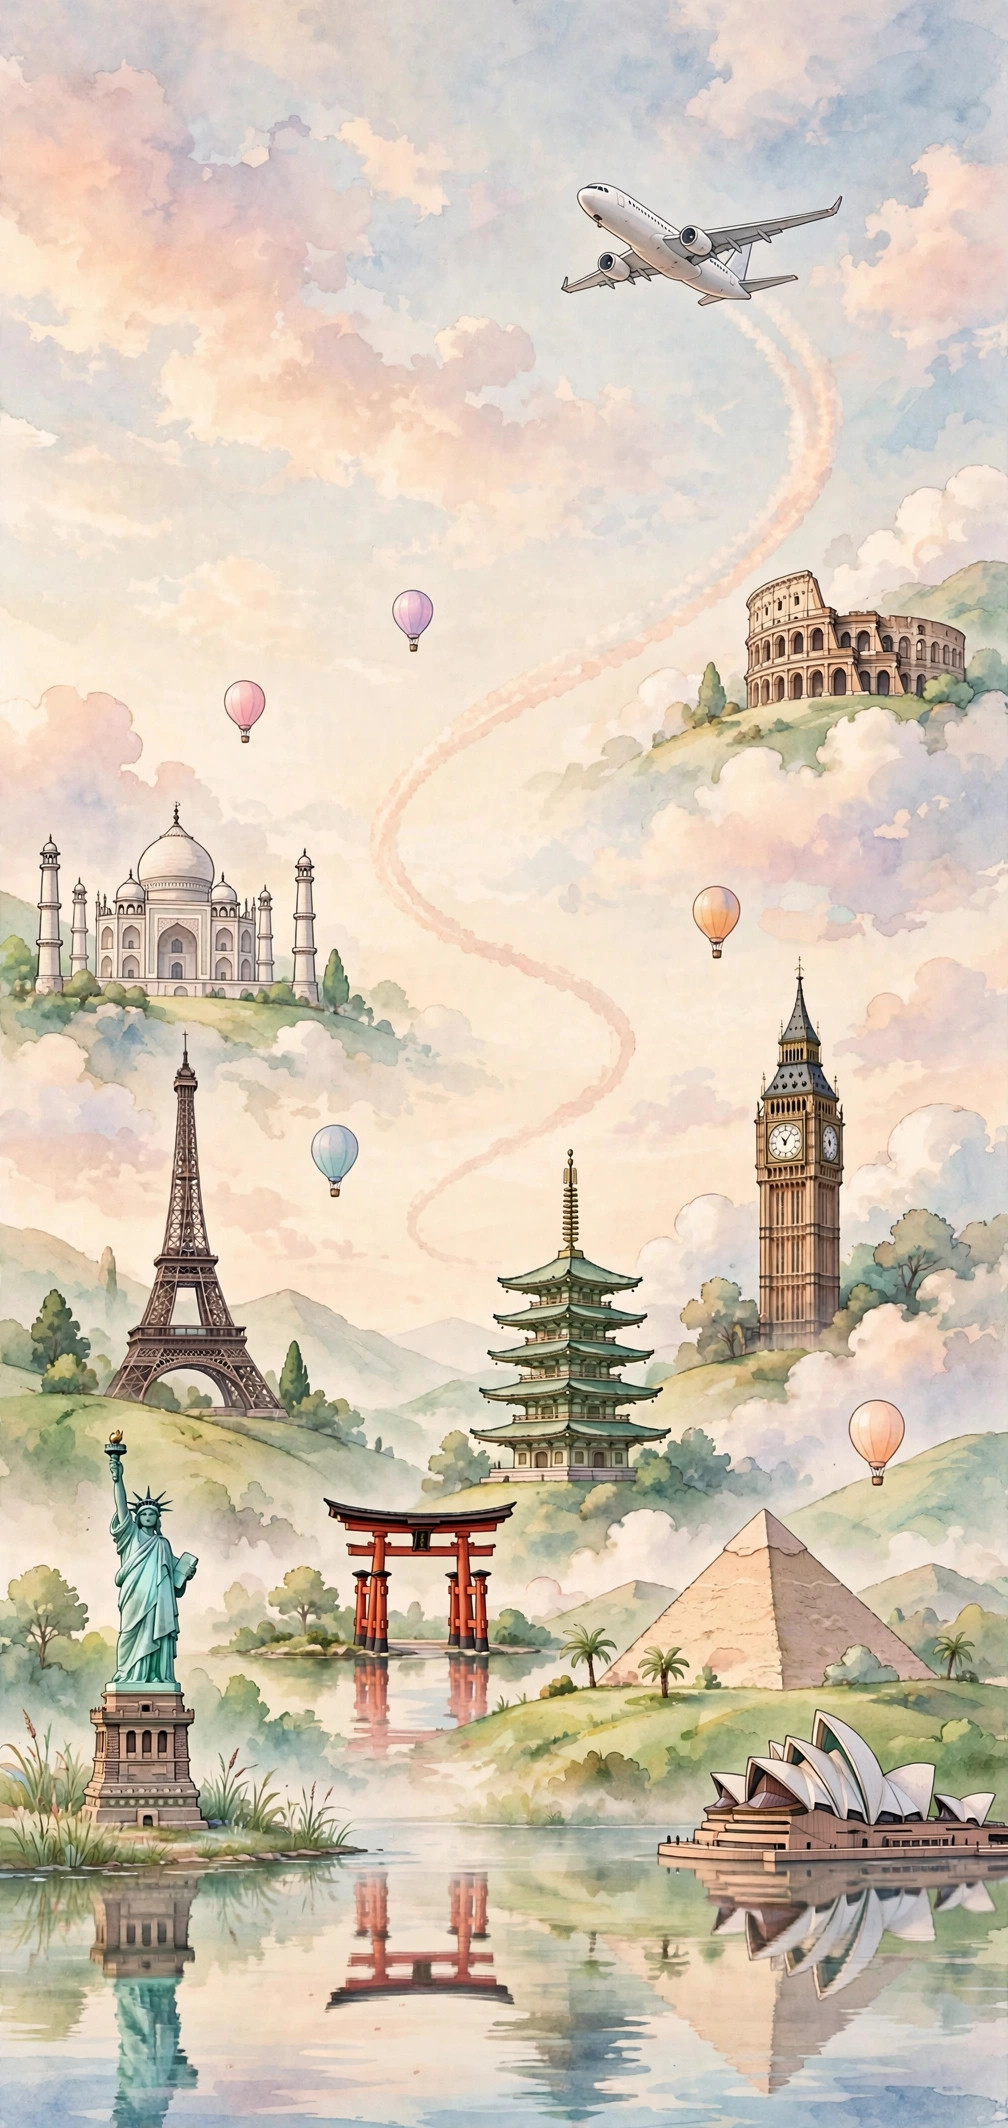
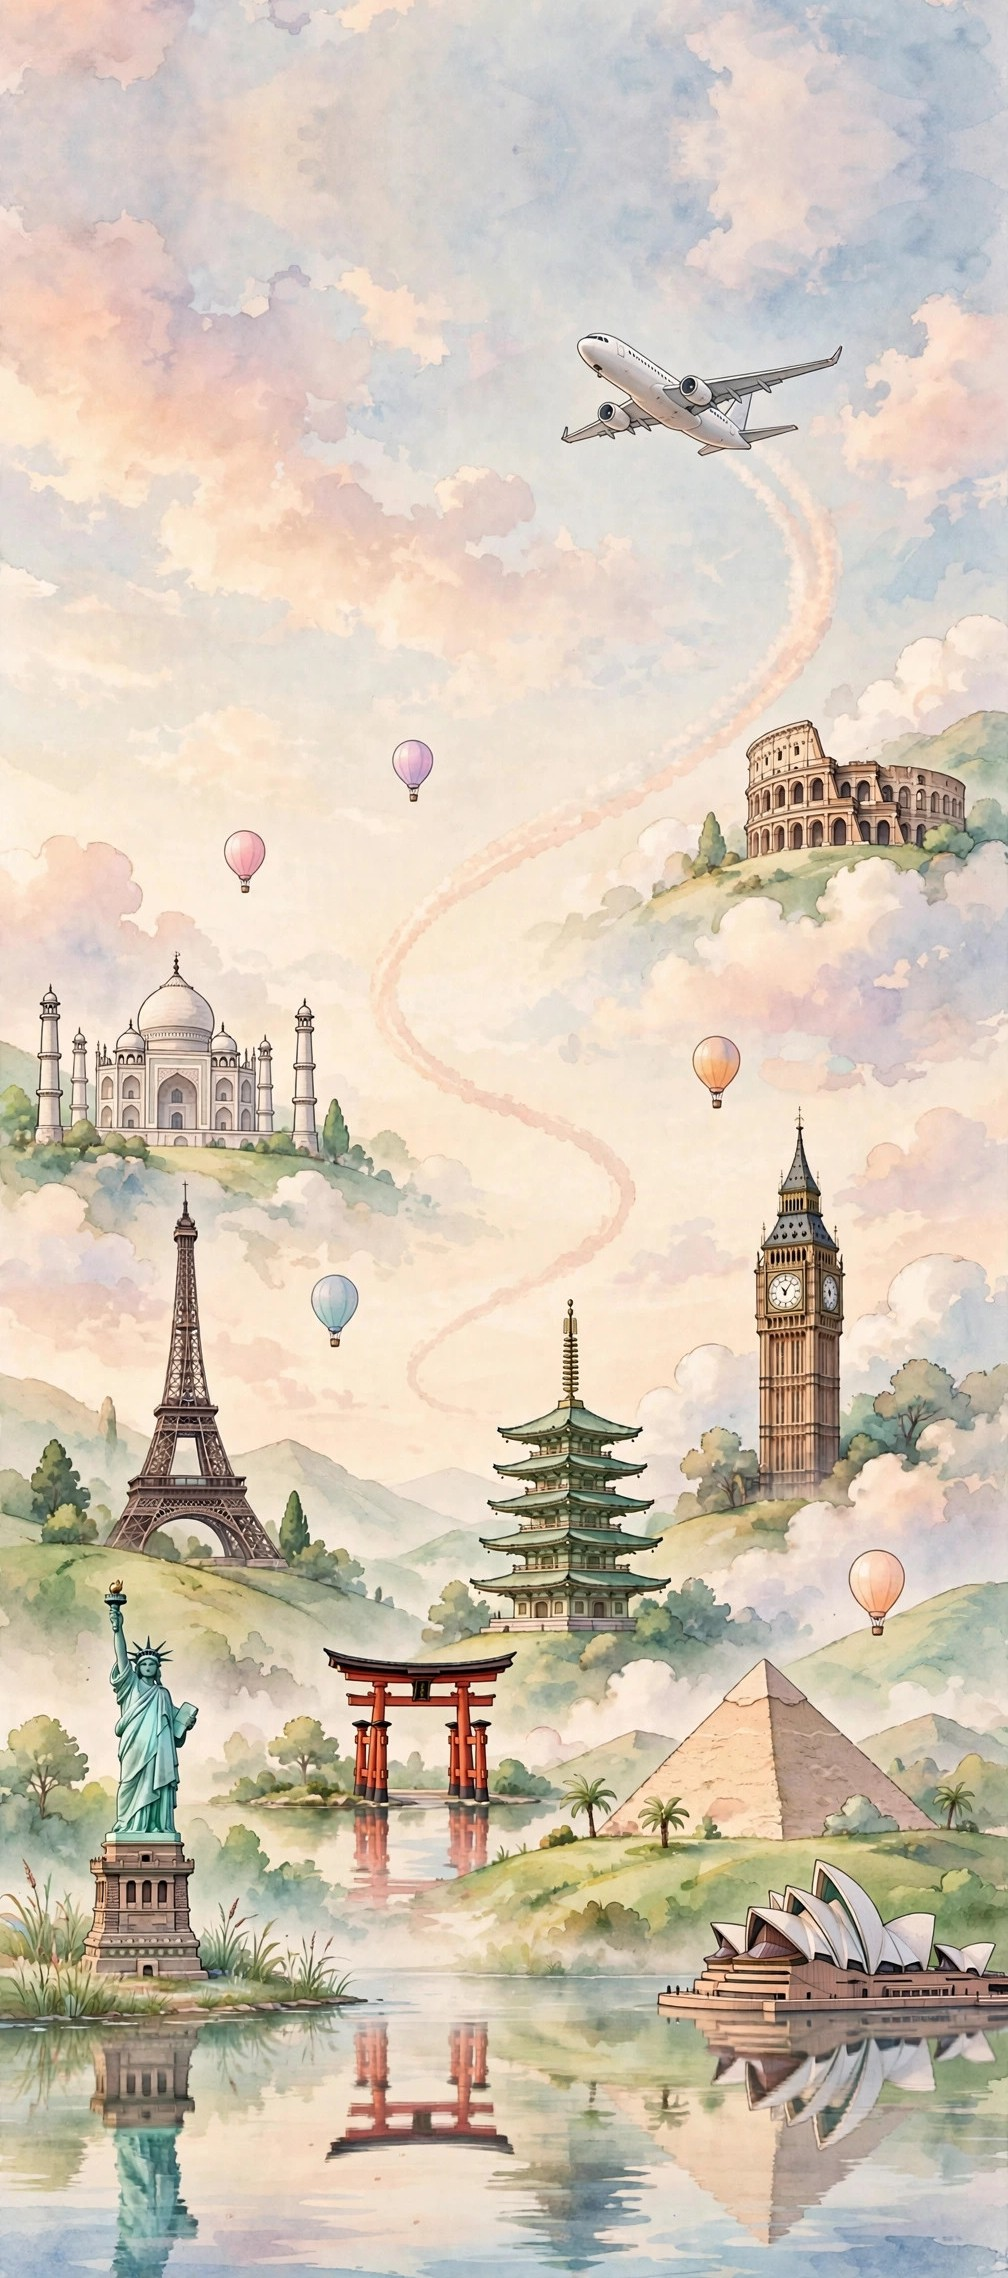
Add files via upload

diff --git a/public/index.html b/public/index.html
@@ -31,15 +31,15 @@ body{
 }
 body::before{
   content:""; position:fixed; inset:0; z-index:-2;
-  background:url("assets/travel-bg.jpg") center/cover no-repeat, linear-gradient(180deg, #FBE7CE, #FFF7EC 50%, #FBE7CE);
+  background:url("assets/travel-bg.jpg") center top/cover no-repeat, linear-gradient(180deg, #FBE7CE, #FFF7EC 50%, #FBE7CE);
 }
 body::after{
   content:""; position:fixed; inset:0; z-index:-1;
   background:linear-gradient(180deg, rgba(255,247,236,.24), rgba(255,247,236,.38));
 }
-/* Dien thoai: dung anh nen DOC rieng (9:19.5) phu FULL toan man hinh bang cover */
+/* Dien thoai: dung anh nen DOC rieng phu FULL toan man hinh bang cover, neo TOP de may bay o goc tren artwork luon hien tron tren moi ti le man hinh */
 @media (max-width:640px){
-  body::before{background-image:url("assets/travel-bg-portrait.jpg"); background-size:cover; background-position:center; background-color:#FFF7EC}
+  body::before{background-image:url("assets/travel-bg-portrait.jpg"); background-size:cover; background-position:center top; background-color:#FFF7EC}
 }
 h1,h2,h3,.font-round{font-family:"Baloo 2","Be Vietnam Pro","Comic Sans MS","Chalkboard SE",system-ui,sans-serif}
 button{font-family:inherit; cursor:pointer; border:none; background:none; color:inherit}
@@ -76,33 +76,33 @@ textarea.field{resize:vertical; min-height:64px}
 @keyframes planeGlide{0%,100%{transform:translate(0,0) rotate(0deg)}30%{transform:translate(-7px,-9px) rotate(-4deg)}55%{transform:translate(-2px,-13px) rotate(-1deg)}75%{transform:translate(5px,-6px) rotate(3deg)}}
 @media (prefers-reduced-motion: reduce){.plane-wrap img{animation:none}}
 .date-row{display:grid; grid-template-columns:1fr 1fr; gap:12px; margin-top:16px}
-.date-btn{width:100%; text-align:left; background:#FFF9F0; border:2px solid var(--line); border-radius:var(--r-md); padding:12px 14px; font-size:15px; font-weight:600; display:flex; justify-content:space-between; align-items:center}
+.date-btn{width:100%; height:52px; text-align:left; background:#FFF9F0; border:2px solid var(--line); border-radius:var(--r-md); padding:12px 14px; font-size:15px; font-weight:600; display:flex; justify-content:space-between; align-items:center}
 .date-btn .ph{color:var(--muted); font-weight:500}
 .city-wrap{position:relative; margin-top:12px}
 .cc-row{display:grid; grid-template-columns:1fr 1fr; gap:12px; margin-top:12px}
 .cc-row .city-wrap{margin-top:0; min-width:0}
-.cc-row .field{padding:12px 10px}
+.cc-row .field{padding:12px 10px; height:52px}
 .suggest{position:absolute; left:0; right:0; top:calc(100% + 6px); background:#fff; border:2px solid var(--line); border-radius:var(--r-md); box-shadow:var(--shadow); overflow:hidden; z-index:30}
 .suggest button{display:flex; justify-content:space-between; align-items:center; width:100%; text-align:left; padding:11px 14px; font-size:15px; border-bottom:1px solid #FBF0DD}
 .suggest button:last-child{border-bottom:none}
 .suggest button:hover{background:#FFF4E4}
 .suggest .ct{color:var(--muted); font-size:12px; font-weight:700}
 .search-btn{width:100%; margin-top:16px; padding:15px; font-size:17px}
-.nav-grid{display:grid; grid-template-columns:1fr 1fr; gap:10px; margin-top:12px}
-.nav-tile{background:rgba(255,253,248,.92); border:2px solid var(--line); border-radius:20px; box-shadow:var(--shadow); padding:12px 8px 10px; display:flex; flex-direction:column; align-items:center; gap:4px; font-family:"Baloo 2",sans-serif; font-weight:800; font-size:15px; color:#274156}
-.nav-tile .ic{font-size:24px; line-height:1}
+.nav-grid{display:grid; grid-template-columns:1fr 1fr; grid-auto-rows:1fr; gap:10px; margin-top:12px}
+.nav-tile{background:rgba(255,253,248,.92); border:2px solid var(--line); border-radius:20px; box-shadow:var(--shadow); padding:12px 8px 10px; display:flex; flex-direction:column; align-items:center; justify-content:center; height:76px; gap:4px; font-family:"Baloo 2",sans-serif; font-weight:800; font-size:15px; color:#274156}
+.nav-tile .ic{font-size:24px; line-height:1; height:26px; display:flex; align-items:center; justify-content:center}
 .nav-tile.on{background:var(--coral); border-color:var(--coral); color:#fff}
 .nav-row{display:flex; gap:8px; margin-bottom:14px}
 .nav-row button{flex:1; min-width:0; background:var(--card); border:2px solid var(--line); border-radius:999px; padding:9px 4px; font-weight:700; font-size:13px; box-shadow:var(--shadow)}
 .nav-row button.on{background:var(--coral); border-color:var(--coral); color:#fff}
-.tab-nav button{display:flex; flex-direction:column; align-items:center; justify-content:center; gap:3px; padding:8px 2px 7px; line-height:1.1; white-space:nowrap}
+.tab-nav button{display:flex; flex-direction:column; align-items:center; justify-content:center; height:56px; gap:3px; padding:8px 2px 7px; line-height:1.1; white-space:nowrap}
 .tab-nav button .ic{font-size:19px; line-height:1}
 .tab-nav button .lb{font-size:12px; font-weight:700}
 
 /* ===== Taskbar co dinh duoi day (chi dung trong Lich trinh) ===== */
 .taskbar{position:fixed; left:0; right:0; bottom:0; z-index:60; background:var(--card); border-top:2px solid var(--line); box-shadow:0 -6px 20px rgba(190,120,70,.14); padding:8px 10px calc(8px + env(safe-area-inset-bottom))}
 .taskbar-in{max-width:540px; margin:0 auto; display:flex; gap:6px}
-.taskbar button{flex:1; min-width:0; display:flex; flex-direction:column; align-items:center; justify-content:center; gap:3px; padding:4px 2px 3px; line-height:1.1; white-space:nowrap; color:var(--muted); border-radius:16px}
+.taskbar button{flex:1; min-width:0; height:52px; display:flex; flex-direction:column; align-items:center; justify-content:center; gap:3px; padding:4px 2px 3px; line-height:1.1; white-space:nowrap; color:var(--muted); border-radius:16px}
 .taskbar button .ic{font-size:21px; line-height:1; padding:3px 14px; border-radius:999px}
 .taskbar button .lb{font-size:12px; font-weight:700}
 .taskbar button.on{color:var(--coral-d)}
@@ -255,10 +255,10 @@ body:has(.taskbar) .toast{bottom:106px}
 .empty-note{background:rgba(255,253,248,.85); border:2px dashed var(--peach2); border-radius:var(--r-lg); padding:22px 16px; text-align:center; color:var(--muted); font-weight:600}
 /* ===== Dang nhap & Nhat ky ===== */
 .auth-bar{display:flex; gap:8px; margin-top:12px; align-items:stretch}
-.auth-bar .btn{flex:1; min-width:0; padding:11px 10px; font-size:14px; white-space:nowrap}
+.auth-bar .btn{flex:1; min-width:0; height:46px; padding:11px 10px; font-size:14px; white-space:nowrap}
 .auth-bar.signed .btn{flex:0 0 auto}
 .auth-bar.signed .user-chip{flex:1 1 auto}
-.user-chip{display:flex; align-items:center; gap:8px; background:rgba(255,253,248,.9); border:2px solid var(--line); border-radius:999px; padding:5px 12px 5px 6px; box-shadow:var(--shadow); font-weight:700; font-size:13px; flex:1.2; min-width:0}
+.user-chip{display:flex; align-items:center; height:46px; gap:8px; background:rgba(255,253,248,.9); border:2px solid var(--line); border-radius:999px; padding:5px 12px 5px 6px; box-shadow:var(--shadow); font-weight:700; font-size:13px; flex:1.2; min-width:0}
 .user-chip img{width:30px; height:30px; border-radius:50%; flex:none}
 .user-chip span{overflow:hidden; text-overflow:ellipsis; white-space:nowrap}
 .j-item{border:2px solid var(--line); border-radius:var(--r-md); padding:12px 14px; margin-bottom:10px; background:#fff}
@@ -496,7 +496,7 @@ function authBarHTML() {
       '<button class="btn btn-ghost" id="btn-logout">Đăng xuất</button></div>';
   }
   return '<div class="auth-bar">' +
-    '<button class="btn btn-teal" id="btn-login">🔐 Đăng nhập</button>' +
+    '<button class="btn btn-ghost" id="btn-login">👤 Đăng nhập</button>' +
     '<button class="btn btn-ghost" id="btn-journal">📓 Nhật ký</button></div>';
 }
 function bindAuthBar(v) {
@@ -948,11 +948,12 @@ function renderPhrases(v) {
   const found = phraseSetFor(country);
   if (fromTrip && found) html += '<div class="mb"><span class="chip">🧭 Theo chuyến đi của bạn: ' + esc(country) + "</span></div>";
   html += '<div class="card mb"><div class="row-between"><b>🌍 Quốc gia: ' + (country ? esc(country) : "—") + '</b><button class="btn btn-ghost btn-sm" id="ph-change">Đổi quốc gia</button></div>' +
-    '<div id="ph-form" style="display:none" class="mt"><div class="add-row" style="margin-top:0"><input class="field" id="ph-country" placeholder="Điền tên quốc gia, VD: Nhật Bản, Pháp…"><button class="btn btn-coral" id="ph-go">Xem</button></div>' +
-    '<div class="tiny muted" style="margin-top:6px">Hiện có sẵn mẫu câu cho: ' + Object.keys(PHRASES).join(", ") + ".</div></div></div>";
+    '<div id="ph-form" style="display:none" class="mt"><select class="field" id="ph-country"><option value="">🌍 Ấn chọn quốc gia…</option>' +
+    Object.keys(PHRASES).map(k => '<option value="' + esc(k) + '"' + (found && found.key === k ? " selected" : "") + ">" + flagOf(k) + " " + esc(k) + "</option>").join("") +
+    '</select><div class="tiny muted" style="margin-top:6px">Ấn vào ô trên rồi chọn quốc gia trong danh sách — mẫu câu hiện ra ngay, không cần tự điền.</div></div></div>';
 
   if (!country) {
-    html += '<div class="empty-note">Bạn điền tên quốc gia ở trên để xem mẫu câu giao tiếp của nước đó nhé 🌏</div>';
+    html += '<div class="empty-note">Bạn ấn nút "Đổi quốc gia" ở trên rồi chọn một nước trong danh sách để xem mẫu câu giao tiếp nhé 🌏</div>';
   } else if (!found) {
     html += '<div class="empty-note">Chưa có sẵn mẫu câu cho ' + esc(country) + '.<br>Bạn thử các nước đã có sẵn ở mục "Đổi quốc gia" nhé.</div>';
   } else {
@@ -969,13 +970,8 @@ function renderPhrases(v) {
   v.innerHTML = html; bindNav(v);
   const ch = $("#ph-change", v);
   if (ch) ch.onclick = () => { const f = $("#ph-form", v); f.style.display = f.style.display === "none" ? "block" : "none"; };
-  const go = $("#ph-go", v);
-  if (go) go.onclick = () => {
-    const val = $("#ph-country", v).value.trim();
-    if (!val) return;
-    if (phraseSetFor(val)) { phraseState.custom = val; render(); }
-    else toast("Chưa có mẫu câu cho " + val + " — xem danh sách nước có sẵn nhé");
-  };
+  const phSel = $("#ph-country", v);
+  if (phSel) phSel.onchange = () => { if (phSel.value) { phraseState.custom = phSel.value; render(); } };
   $$("[data-say]", v).forEach(b => b.onclick = () => {
     try {
       const u = new SpeechSynthesisUtterance(b.dataset.say);
